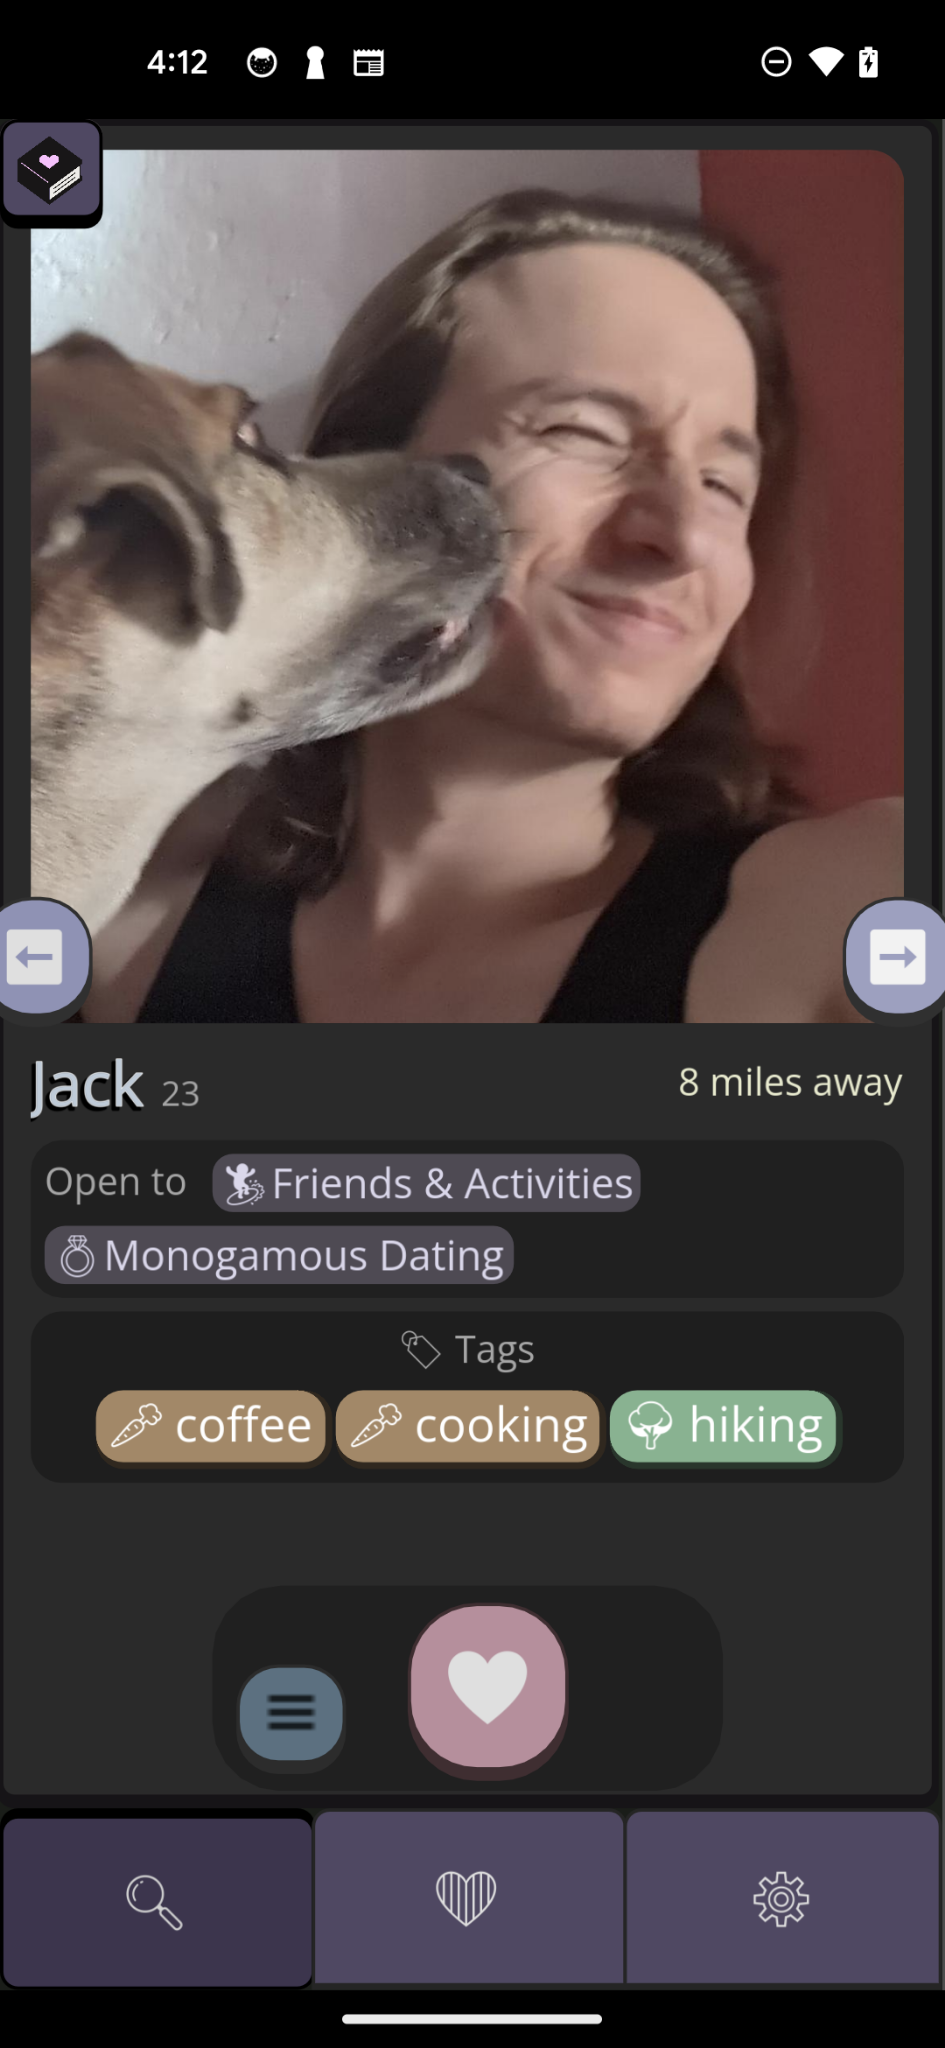
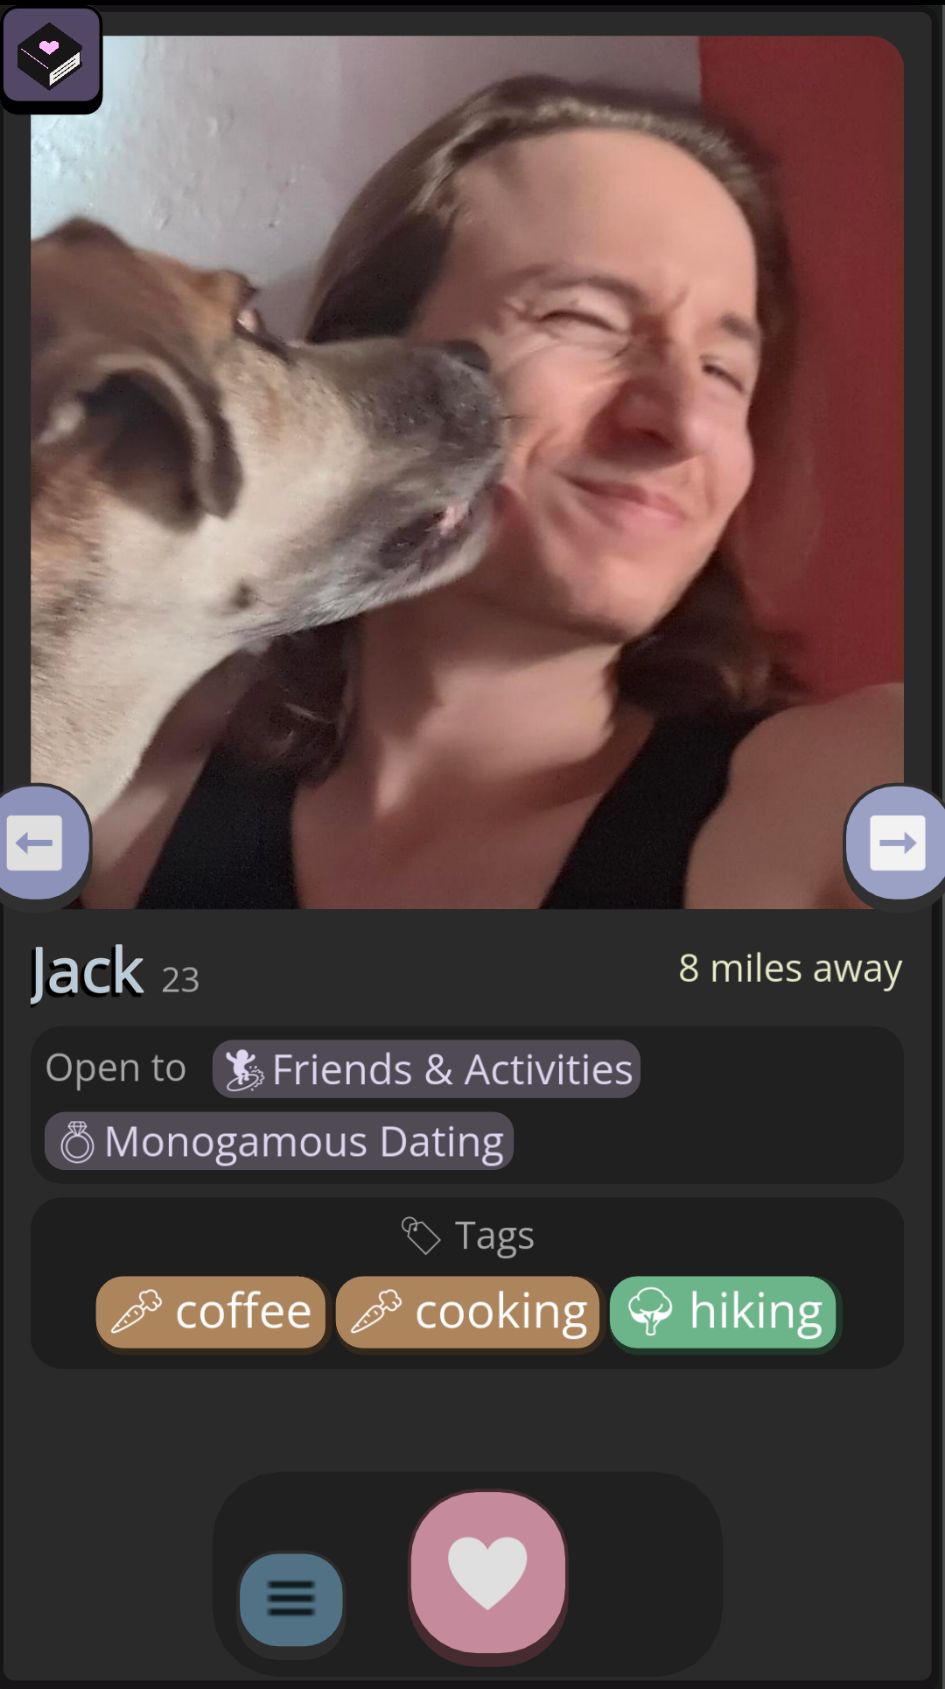
add photos to front page

diff --git a/static/styles.css b/static/styles.css
@@ -15,9 +15,9 @@
   --bg-secondary:  #2a2a2a;
   --bg-card:       #313131;
   --border:        #3d3d3d;
-  --text-primary:  #d3d0e3;
+  --text-primary:  #e3e0e3;
   --text-secondary:#a0a0a0;
-  --warm-text:	   #ead5c5;
+  --warm-text:	   #d3d0e3;
   --accent:        #af9bdd;
   --accent-hover:  #b8a5e2;
   --font-heading:  'Georgia', serif;
@@ -72,6 +72,95 @@ figcaption {
   text-align: center;
   margin-top: -1rem;
   margin-bottom: 2rem;
+}
+/* ===========================
+   Index
+   =========================== */
+.photo-strip-wrapper {
+  position: absolute;
+  top: 0;
+  left: 0;
+  width: 100%;
+  height: 100%;
+  min-height: 100vh;
+  z-index: 0;
+  pointer-events: none;
+}
+.photo-mask {
+  position: absolute;
+  min-height: 100vh;
+  width: 100%;
+  -webkit-mask-image: linear-gradient(to bottom, black 40%, rgba(0,0,0,0.3) 100%);
+  mask-image: linear-gradient(to bottom, black 40%, rgba(0,0,0,0.3) 100%);
+  }
+
+.photo-strip {
+  position: absolute;
+  top: 30em;
+  left: -200px;
+  width: 140%;
+  display: flex;
+  gap: 2rem;
+  transform: rotate(-10deg);
+  opacity: 1;
+}
+
+.photo-strip img {
+  width: auto;
+  height: 500px;
+  object-fit: cover;
+  border-radius: var(--radius);
+  flex-shrink: 0;
+}
+.tag-spinner-row {
+  display: inline;
+  align-items: left;
+  justify-content: left;
+  gap: 0.6rem;
+  font-size: 2rem;
+  font-family: var(--font-heading);
+  color: var(--text-secondary);
+  margin: 1.5rem 0 0;
+  max-height 20px;
+}
+
+.tag-spinner-label {
+  color: var(--warm-text);
+}
+
+.tag-spinner-window {
+  display: inline-block;
+  position: relative;
+  height: 1.7em;
+  overflow: hidden;
+  min-width: 280px;
+  vertical-align: middle;
+  margin-left: 0.6rem;
+  margin-right: -50px;
+}
+
+.tag-spinner-item {
+  position: absolute;
+  top: 0;
+  left: 0;
+  width: 100%;
+  height: 100%;
+  display: flex;
+  align-items: center;
+  justify-content: flex-start;
+}
+
+.tag-spinner-item.enter {
+  transform: translateY(100%);
+  opacity: 0;
+}
+
+.tag-spinner-item.visible {
+  animation: spinnerIn 0.42s cubic-bezier(0.22, 1, 0.36, 1) forwards;
+}
+
+.tag-spinner-item.exit {
+  animation: spinnerOut 0.38s cubic-bezier(0.55, 0, 1, 0.45) forwards;
 }
 
 /* ===========================
@@ -198,6 +287,8 @@ figcaption {
    =========================== */
 
 .container {
+		position: relative;
+		z-index: 1;
   width: 100%;
   max-width: 960px;
   margin: 0 auto;
@@ -260,7 +351,7 @@ main {
 }
 
 section {
-  margin-bottom: 4rem;
+  margin-bottom: 1rem;
 }
 
 /* ===========================
@@ -340,6 +431,7 @@ footer {
   border-top: 1px solid var(--border);
   padding: 2rem 0;
   text-align: center;
+  z-index: 1;
 }
 
 footer p {
@@ -387,58 +479,6 @@ footer p {
 		font-size: 1rem;
 }
 
-/* ===========================
-   Tag Spinner
-   =========================== */
-.tag-spinner-row {
-  display: inline;
-  align-items: left;
-  justify-content: left;
-  gap: 0.6rem;
-  font-size: 1.1rem;
-  color: var(--text-secondary);
-  margin: 1.5rem 0 0;
-  max-height 20px;
-}
-
-.tag-spinner-label {
-  color: var(--warm-text);
-}
-
-.tag-spinner-window {
-  display: inline-block;
-  position: relative;
-  height: 1.7em;
-  overflow: hidden;
-  min-width: 280px;
-  vertical-align: middle;
-  margin-left: 0.6rem;
-  margin-right: -50px;
-}
-
-.tag-spinner-item {
-  position: absolute;
-  top: 0;
-  left: 0;
-  width: 100%;
-  height: 100%;
-  display: flex;
-  align-items: center;
-  justify-content: flex-start;
-}
-
-.tag-spinner-item.enter {
-  transform: translateY(100%);
-  opacity: 0;
-}
-
-.tag-spinner-item.visible {
-  animation: spinnerIn 0.42s cubic-bezier(0.22, 1, 0.36, 1) forwards;
-}
-
-.tag-spinner-item.exit {
-  animation: spinnerOut 0.38s cubic-bezier(0.55, 0, 1, 0.45) forwards;
-}
 
 /* ===========================
    Hamburger Menu
@@ -515,6 +555,8 @@ footer p {
 		.container {
 		  padding: 0 1.5rem;
 		}
+		.photo-strip { gap: 0.4rem; }
+		.photo-strip img { height: 300px; }
 }
 
 @media (max-width: 500px) {
@@ -538,6 +580,9 @@ footer p {
 		.side-by-side img {
 				max-width: 150px;
 		}
+
+		.photo-strip { gap: 0.1rem; }
+		.photo-strip img { height: 200px; }
 }
 
 @keyframes spinnerIn {

diff --git a/layouts/index.html b/layouts/index.html
@@ -1,4 +1,26 @@
 {{ define "main" }}
+
+<div class="photo-mask">
+
+  <div class="photo-strip-wrapper">
+    <div class="photo-strip">
+			<img src="/pics/em.png" alt="">
+			<img src="/pics/caleb.png" alt="">
+			<img src="/pics/em.png" alt="">
+			<img src="/pics/marcel.png" alt="">
+			<img src="/pics/levels.png" alt="">
+			<img src="/pics/jack.png" alt="">
+			<img src="/pics/jane.png" alt="">
+			<img src="/pics/caleb.png" alt="">
+			<img src="/pics/em.png" alt="">
+			<img src="/pics/marcel.png" alt="">
+			<img src="/pics/levels.png" alt="">
+			<img src="/pics/jack.png" alt="">
+			<img src="/pics/jane.png" alt="">
+    </div>
+  </div>
+</div>
+
     <div class="container">
 
       <!-- Hero -->
@@ -9,39 +31,24 @@
 
         <!-- Rotating Tag Spinner -->
         <div class="tag-spinner-row">
-		<h2><span class="tag-spinner-label">Whether you're</span>
+		<span class="tag-spinner-label">Whether you're</span>
           <div class="tag-spinner-window" id="spinner-1">
             <!-- Tags are injected by JS -->
-          </div></h2>
+          </div>
         </div>
+		<br>
 
         <div class="tag-spinner-row">
-		<h2><span class="tag-spinner-label">Whether you're into</span>
+		<span class="tag-spinner-label">Whether you're into</span>
           <div class="tag-spinner-window" id="spinner-2">
             <!-- Tags are injected by JS -->
-          </div></h2>
+          </div>
         </div>
 
-		<!--
-        <div class="mt-4">
-          <a href="#features" class="btn">Get Started</a>
-          &nbsp;
-          <a href="#contact" class="btn btn-outline">Learn More</a>
-        </div>
-	  -->
       </section>
 
-      <section class="hero" id="about">
-			  <br>
-			  <br>
-			  <br>
-			  <br>
-        <p>
-		A nonprofit, open source friending and dating app.
-        </p> 
-        <p>
-		Now available in North Carolina.
-        </p>
+      <section class="hero">
+        <p> A nonprofit, open source friending and dating app. </p> 
       </section>
 
   <script>
